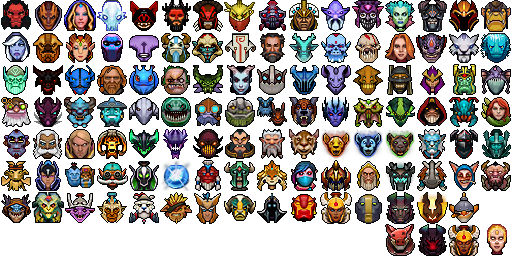
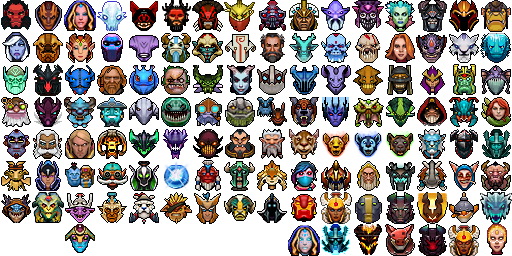
Closes #426

diff --git a/datadrivendota/static/css/dota2minimapheroes.css b/datadrivendota/static/css/dota2minimapheroes.css
@@ -10,7 +10,7 @@
     background-position: -0px -0px;
 }
 
-.d2mh.antimage, .d2mh.npc_dota_hero_antimage, .d2mh.hero-1 {
+.d2mh.antimage, .d2mh.npc_dota_hero_antimage, .d2mh.anti_mage, .d2mh.hero-1 {
     background-position: -32px -0px;
 }
 
@@ -58,7 +58,7 @@
     background-position: -384px -0px;
 }
 
-.d2mh.doom_bringer, .d2mh.npc_dota_hero_doom_bringer, .d2mh.hero-69 {
+.d2mh.doom_bringer, .d2mh.npc_dota_hero_doom_bringer, .d2mh.doom, .d2mh.hero-69 {
     background-position: -416px -0px;
 }
 
@@ -90,7 +90,7 @@
     background-position: -128px -32px;
 }
 
-.d2mh.furion, .d2mh.npc_dota_hero_furion, .d2mh.hero-53 {
+.d2mh.furion, .d2mh.npc_dota_hero_furion, .d2mh.natures_prophet, .d2mh.hero-53 {
     background-position: -160px -32px;
 }
 
@@ -114,7 +114,7 @@
     background-position: -320px -32px;
 }
 
-.d2mh.life_stealer, .d2mh.npc_dota_hero_life_stealer, .d2mh.hero-54 {
+.d2mh.life_stealer, .d2mh.npc_dota_hero_life_stealer, .d2mh.lifestealer, .d2mh.hero-54 {
     background-position: -352px -32px;
 }
 
@@ -134,11 +134,11 @@
     background-position: -480px -32px;
 }
 
-.d2mh.necrolyte, .d2mh.npc_dota_hero_necrolyte, .d2mh.hero-36 {
+.d2mh.necrolyte, .d2mh.npc_dota_hero_necrolyte, .d2mh.necrophos, .d2mh.hero-36 {
     background-position: -0px -64px;
 }
 
-.d2mh.nevermore, .d2mh.npc_dota_hero_nevermore, .d2mh.hero-11 {
+.d2mh.nevermore, .d2mh.npc_dota_hero_nevermore, .d2mh.shadow_fiend, .d2mh.hero-11 {
     background-position: -32px -64px;
 }
 
@@ -162,11 +162,11 @@
     background-position: -192px -64px;
 }
 
-.d2mh.queenofpain, .d2mh.npc_dota_hero_queenofpain, .d2mh.hero-39 {
+.d2mh.queenofpain, .d2mh.npc_dota_hero_queenofpain, .d2mh.queen_of_pain, .d2mh.hero-39 {
     background-position: -224px -64px;
 }
 
-.d2mh.rattletrap, .d2mh.npc_dota_hero_rattletrap, .d2mh.hero-51 {
+.d2mh.rattletrap, .d2mh.npc_dota_hero_rattletrap, .d2mh.clockwerk, .d2mh.hero-51 {
     background-position: -256px -64px;
 }
 
@@ -190,7 +190,7 @@
     background-position: -416px -64px;
 }
 
-.d2mh.skeleton_king, .d2mh.npc_dota_hero_skeleton_king, .d2mh.hero-42 {
+.d2mh.skeleton_king, .d2mh.npc_dota_hero_skeleton_king, .d2mh.wraith_king, .d2mh.hero-42 {
     background-position: -448px -64px;
 }
 
@@ -238,7 +238,7 @@
     background-position: -288px -96px;
 }
 
-.d2mh.vengefulspirit, .d2mh.npc_dota_hero_vengefulspirit, .d2mh.hero-20 {
+.d2mh.vengefulspirit, .d2mh.npc_dota_hero_vengefulspirit, .d2mh.vengeful_spirit, .d2mh.hero-20 {
     background-position: -320px -96px;
 }
 
@@ -258,7 +258,7 @@
     background-position: -448px -96px;
 }
 
-.d2mh.windrunner, .d2mh.npc_dota_hero_windrunner, .d2mh.hero-21 {
+.d2mh.windrunner, .d2mh.npc_dota_hero_windrunner, .d2mh.windranger, .d2mh.hero-21 {
     background-position: -480px -96px;
 }
 
@@ -266,7 +266,7 @@
     background-position: -0px -128px;
 }
 
-.d2mh.zuus, .d2mh.npc_dota_hero_zuus, .d2mh.hero-22 {
+.d2mh.zuus, .d2mh.npc_dota_hero_zuus, .d2mh.zeus, .d2mh.hero-22 {
     background-position: -32px -128px;
 }
 
@@ -278,7 +278,7 @@
     background-position: -96px -128px;
 }
 
-.d2mh.obsidian_destroyer, .d2mh.npc_dota_hero_obsidian_destroyer, .d2mh.hero-76 {
+.d2mh.obsidian_destroyer, .d2mh.npc_dota_hero_obsidian_destroyer, .d2mh.outworld_devourer, .d2mh.hero-76 {
     background-position: -128px -128px;
 }
 
@@ -326,7 +326,7 @@
     background-position: -480px -128px;
 }
 
-.d2mh.treant, .d2mh.npc_dota_hero_treant, .d2mh.hero-83 {
+.d2mh.treant, .d2mh.npc_dota_hero_treant, .d2mh.treant_protector, .d2mh.hero-83 {
     background-position: -0px -160px;
 }
 
@@ -346,7 +346,7 @@
     background-position: -128px -160px;
 }
 
-.d2mh.wisp, .d2mh.npc_dota_hero_wisp, .d2mh.hero-91 {
+.d2mh.wisp, .d2mh.npc_dota_hero_wisp, .d2mh.io, .d2mh.hero-91 {
     background-position: -160px -160px;
 }
 
@@ -378,7 +378,7 @@
     background-position: -384px -160px;
 }
 
-.d2mh.magnataur, .d2mh.npc_dota_hero_magnataur, .d2mh.hero-97 {
+.d2mh.magnataur, .d2mh.npc_dota_hero_magnataur, .d2mh.magnus, .d2mh.hero-97 {
     background-position: -416px -160px;
 }
 
@@ -386,7 +386,7 @@
     background-position: -448px -160px;
 }
 
-.d2mh.centaur, .d2mh.npc_dota_hero_centaur, .d2mh.hero-96 {
+.d2mh.centaur, .d2mh.npc_dota_hero_centaur, .d2mh.centaur_warrunner, .d2mh.hero-96 {
     background-position: -480px -160px;
 }
 
@@ -398,7 +398,7 @@
     background-position: -32px -192px;
 }
 
-.d2mh.shredder, .d2mh.npc_dota_hero_shredder, .d2mh.hero-98 {
+.d2mh.shredder, .d2mh.npc_dota_hero_shredder, .d2mh.timbersaw, .d2mh.hero-98 {
     background-position: -64px -192px;
 }
 
@@ -450,6 +450,14 @@
     background-position: -448px -192px;
 }
 
+.d2mh.oracle, .d2mh.npc_dota_hero_oracle, .d2mh.hero-111 {
+    background-position: -64px -224px;
+}
+
+.d2mh.winter_wyvern, .d2mh.npc_dota_hero_winter_wyvern, .d2mh.hero-112 {
+    background-position: -480px -192px;
+}
+
 .d2mh.lina_alt1, .d2mh.npc_dota_hero_lina_alt1 {
     background-position: -480px -224px;
 }
@@ -464,4 +472,16 @@
 
 .d2mh.techies_alt1, .d2mh.npc_dota_hero_techies_alt1 {
     background-position: -384px -224px;
+}
+
+.d2mh.nevermore_alt1, .d2mh.npc_dota_hero_nevermore_alt1 {
+    background-position: -352px -224px;
+}
+
+.d2mh.phantom_assassin_alt1, .d2mh.npc_dota_hero_phantom_assassin_alt1 {
+    background-position: -320px -224px;
+}
+
+.d2mh.crystal_maiden_alt1, .d2mh.npc_dota_hero_crystal_maiden_alt1 {
+    background-position: -288px -224px;
 }
